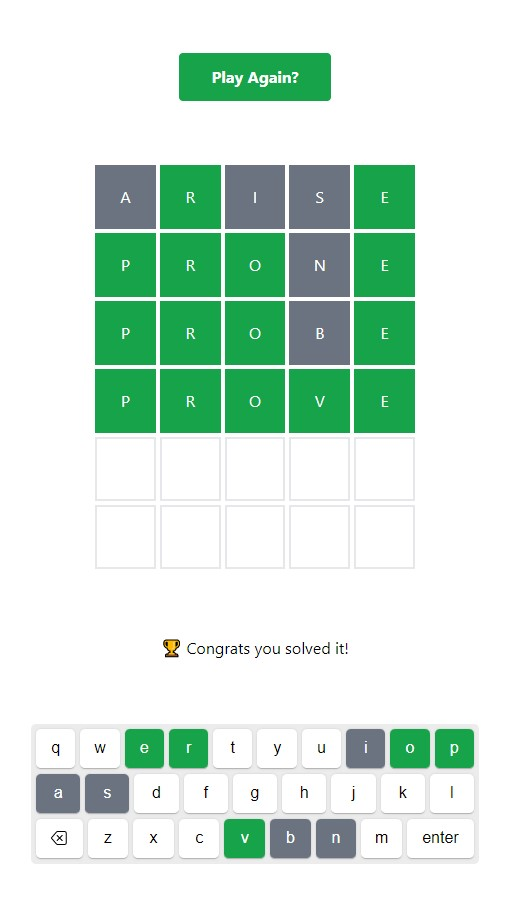
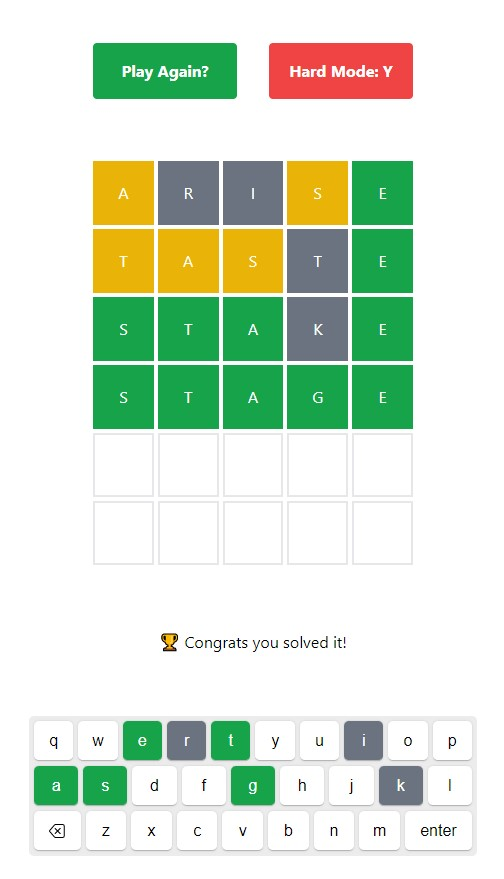
update hardmode image

diff --git a/src/App.vue b/src/App.vue
@@ -56,6 +56,7 @@ const handleInput = (key) => {
 
   if(key == "{enter}"){
     if(currentGuess.length == 5){
+      state.error = ""
       if(state.hardMode){
         if(state.availableWords.includes(currentGuess)){
           state.currentGuessIndex++
@@ -71,6 +72,7 @@ const handleInput = (key) => {
           } 
           tick.play()
         }else{
+          state.error = "⚠ Real Words only in Hard Mode!"
           return
         }
       }else{
@@ -163,8 +165,3 @@ onMounted(() => {
   </div>
 </template>
 
-<style>
-html{
-  background-color: black;
-}
-</style>
